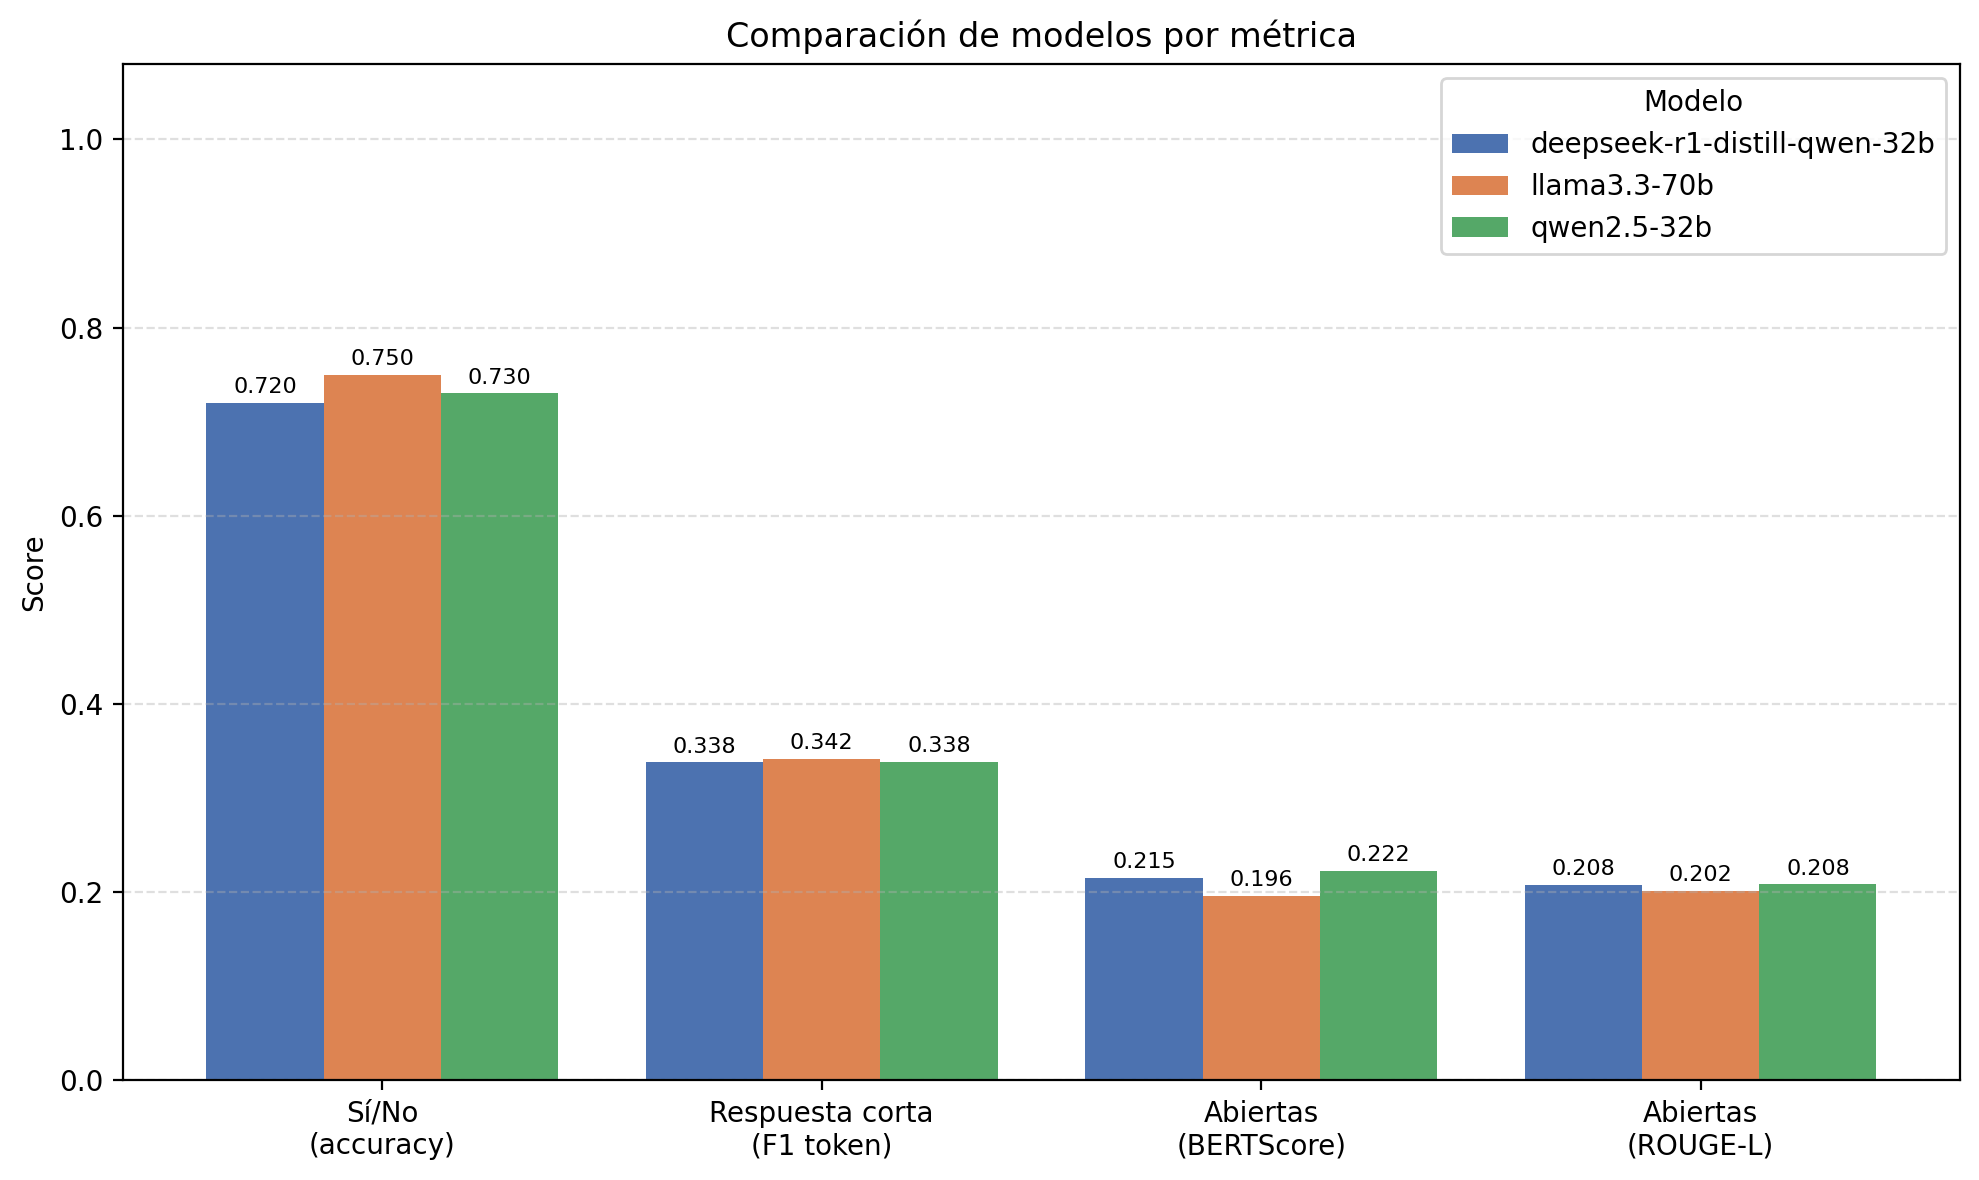
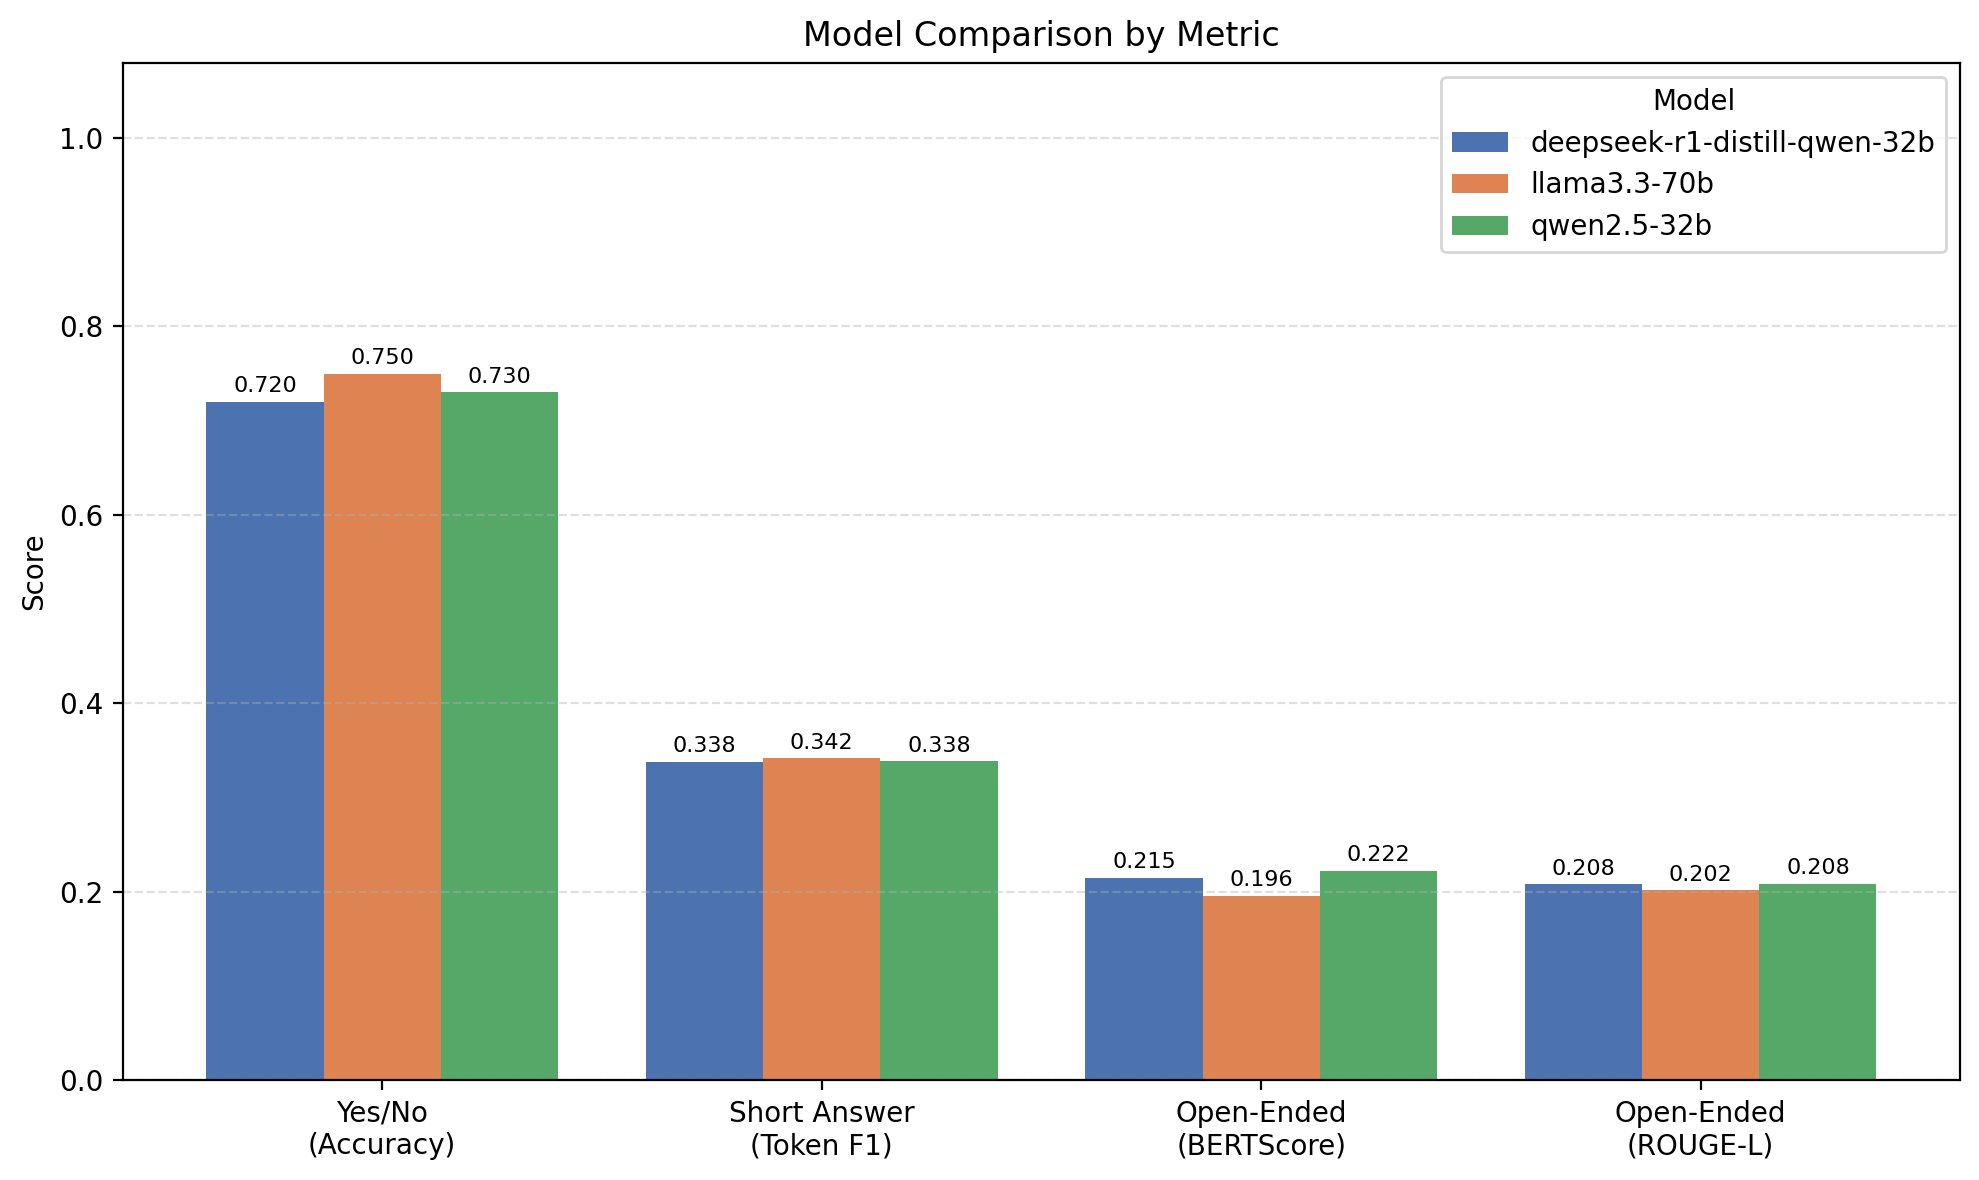
fixup language bar graph

diff --git a/experiments/src/visualize_results.py b/experiments/src/visualize_results.py
@@ -27,11 +27,14 @@ CSV_PATH = PROJECT_ROOT / "results" / "metrics" / "resumen_comparativo.csv"
 FIGURES_DIR = PROJECT_ROOT / "results" / "metrics" / "figures"
 
 METRICS = ["sino_accuracy", "corta_f1", "abierta_bertscore", "abierta_rouge_l"]
+# En inglés: el paper está en inglés, estas etiquetas van directo a las
+# figuras (comparativo_barras.png y comparativo_radar.png, que comparten
+# este diccionario).
 METRIC_LABELS = {
-    "sino_accuracy": "Sí/No\n(accuracy)",
-    "corta_f1": "Respuesta corta\n(F1 token)",
-    "abierta_bertscore": "Abiertas\n(BERTScore)",
-    "abierta_rouge_l": "Abiertas\n(ROUGE-L)",
+    "sino_accuracy": "Yes/No\n(Accuracy)",
+    "corta_f1": "Short Answer\n(Token F1)",
+    "abierta_bertscore": "Open-Ended\n(BERTScore)",
+    "abierta_rouge_l": "Open-Ended\n(ROUGE-L)",
 }
 
 DPI = 200
@@ -90,8 +93,8 @@ def plot_bars(rows: list[dict], colors: dict[str, str], out_path: Path):
     ax.set_xticklabels([METRIC_LABELS[m] for m in METRICS])
     ax.set_ylabel("Score")
     ax.set_ylim(0, 1.08)
-    ax.set_title("Comparación de modelos por métrica")
-    ax.legend(title="Modelo")
+    ax.set_title("Model Comparison by Metric")
+    ax.legend(title="Model")
     ax.grid(axis="y", linestyle="--", alpha=0.4)
 
     fig.tight_layout()
